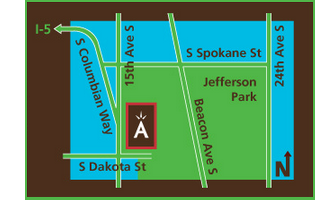
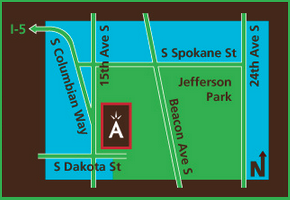
Make directions popup responsive

diff --git a/includes/popcontent.html b/includes/popcontent.html
@@ -50,84 +50,75 @@
 <!-- End Calendar -->
 
 <!-- Directions -->
-<div id="directions">
+<div id="directions" class="center-popup">
 
-    <div class="content-title">
-        Bus Routes
+    <div class="directions-content">
+        <div class="float-right directions-img">
+            <img src="img/map.png">
+        </div>
+        <div>
+            <h3 class="content-title">
+                Bus Routes
+            </h3>
+            <p>
+                We highly encourage sustainable transporation methods such as bussing.
+                <br> The <span class="text-bold">Sound Transit Link Light Rail</span> as well as King County Metro routes <span class="text-bold">#50</span>, <span class="text-bold">#60</span>, and <span class="text-bold">#36</span> are all within walking distance to the Beacon Food Forest Site.
+                <br>
+                <br>
+                <span class="blue">
+                    <a href="http://metro.kingcounty.gov/#apps-tools" target="_blank"> Plan your trip with King County Metro </a>
+                    <br><a href="http://onebusaway.org/p/Tools.action" target="_blank"> Plan your trip with OneBusAway</a>
+                    </span>
+            </p>
+        </div>
+        <div>
+            <h3 class="content-title">
+                Driving Directions
+            </h3>
+            <p>
+                We are located in the North Beacon Hill area, less than 5miles south of I-90 and directly east of the West Seattle Bridge.
+                <br>The Beacon Food Forest site is adjacent to Jefferson Park on 15th AVE S and S. Dakota St in Seattle, WA.
+            </p>
+            <h4 class="text-bold">I-5 Southbound</h4>
+            <p>Take exit #163A and keep left toward Columbian Way</p>
+            <h4 class="text-bold">I-5 Northbound</h4>
+            <p>
+                Take exit #163, keep right Columbian Way
+                <br>Once off the exit:
+                <br>&bull; Stay on Columbian Way, which will merge onto 15th AVE S.
+                <br>&bull; Turn left onto S. Dakota St
+                <br>&bull; Past 16th AVE S, there is parking available in the lot adjacent to the park.
+            </p>
+        </div>
+
+        <div class="directions-information">
+
+
+            <h3 class="content-title">Location</h3>
+            <h4 class="text-bold">Address</h4>
+            <p>
+                15th Avenue South & South Dakota Street
+                <br>Seattle, WA 98108
+            </p>
+            <h4 class="blue">
+                        <a href="./#contactus" onClick="directbox_close()">
+                        Contact Us</a>
+            </h4>
+            <div class="social-locations">
+                <a href="https://www.facebook.com/beaconfoodforest" target="_blank"><img src="img/social/facebook.png">
+                </a>
+
+                <a href="http://goo.gl/sNFL7" target="_blank"><img src="img/social/google.png">
+                </a>
+
+                <a href="http://maps.apple.com/?q=1600+S+Dakota+St+Seattle+WA+98108-1546+United+States" target="_blank"><img src="img/social/apple.png">
+                </a>
+
+                <a href="http://www.yelp.com/biz/beacon-food-forest-seattle" target="_blank"><img src="img/social/yelp.png">
+                </a>
+            </div>
+        </div>
     </div>
-    <p>
-        We highly encourage sustainable transporation methods such as bussing.
-        <br> The <span class="text-bold">Sound Transit Link Light Rail</span> as well as King County Metro routes <span class="text-bold">#50</span>, <span class="text-bold">#60</span>, and <span class="text-bold">#36</span> are all within walking distance to the Beacon Food Forest Site.
-        <br>
-        <br>
-        <span class="blue">
-            <a href="http://metro.kingcounty.gov/#apps-tools" target="_blank"> Plan your trip with King County Metro </a>
-            <br><a href="http://onebusaway.org/p/Tools.action" target="_blank"> Plan your trip with OneBusAway</a>
-            </span>
-    </p>
-    <br>
-    <div class="content-title">
-        Driving Directions
-    </div>
-    <p>
-        We are located in the North Beacon Hill area, less than 5miles south of I-90 and directly east of the West Seattle Bridge.
-        <br>The Beacon Food Forest site is adjacent to Jefferson Park on 15th AVE S and S. Dakota St in Seattle, WA.
-        <br>
-        <br><strong>I-5 Southbound</strong>
-        <br>Take exit #163A and keep left toward Columbian Way
-        <br>
-        <br><strong>I-5 Northbound</strong>
-        <br>Take exit #163, keep right Columbian Way
-        <br>
-        <br>Once off the exit:
-        <br>
-        <br>&bull; Stay on Columbian Way, which will merge onto 15th AVE S.
-        <br>&bull; Turn left onto S. Dakota St
-        <br>&bull; Past 16th AVE S, there is parking available in the lot adjacent to the park.
-        <br>
-    </p>
-
-    <table class="link-table">
-        <tr>
-            <td>
-
-                <div class="content-title">
-                    Beacon Food Forest
-                </div>
-
-                <p>
-                    <span class="text-bold">
-                <br>Address:</span>
-                    <br>15th Avenue South & South Dakota Street
-                    <br>Seattle, WA 98108
-                    <br>
-                    <br>
-                    <span class="blue">
-                    <a href="#contactus" onClick="directbox_close()">
-                    Contact Us</a></span>
-                    <br>
-                    <br>
-
-                    <a href="https://www.facebook.com/beaconfoodforest" target="_blank"><img src="img/social/facebook.png">
-                    </a>
-
-                    <a href="http://goo.gl/sNFL7" target="_blank"><img src="img/social/google.png">
-                    </a>
-
-                    <a href="http://maps.apple.com/?q=1600+S+Dakota+St+Seattle+WA+98108-1546+United+States" target="_blank"><img src="img/social/apple.png">
-                    </a>
-
-                    <a href="http://www.yelp.com/biz/beacon-food-forest-seattle" target="_blank"><img src="img/social/yelp.png">
-                    </a>
-                </p>
-
-            </td>
-            <td>
-                <p><img src="img/map.png">
-                </p>
-            </td>
-        </tr>
-    </table>
 </div>
 
 <div id="fadeDir" onClick="directbox_close()"></div>

diff --git a/style.css b/style.css
@@ -130,6 +130,10 @@ q:before {
 q:after {
     content: close-quote;
 }
+.float-right {
+    float: right;
+}
+
 .content-title {
     font-size: 150%;
     color: #A5978D;
@@ -393,21 +397,62 @@ input[type=text] {
     top: 20%;
     width: 90%;
 }
+
+/*Directions popup*/
 #directions {
     display: none;
     position: fixed;
-    top: 50%;
-    left: 50%;
-    width: 600px;
-    height: 700px;
-    margin-left: -300px;
-    margin-top: -350px;
+    /*top: 50%;*/
+    /*left: 50%;*/
+    max-width: 1000px;
+    max-height: 720px;
+    /*margin-left: -300px;*/
+    /*margin-top: -350px;*/
     background: #FFF;
     z-index: 1002;
-    overflow: visible;
-    padding: 15px 15px 0px 15px;
+    overflow: scroll;
+    padding: 0px 15px 0px 15px;
     border: 10px #50B748 solid;
+    top: 7%;
+    width: 90%;
+    height: 88%;
 }
+@media only screen and (max-width: 525px) {
+    .directions-content .directions-img {
+        width:100%;
+        padding-bottom: 15px;
+    }
+    .directions-content .directions-img img{
+        width:100%;
+    }
+}
+@media only screen and (min-width: 526px) {
+    .directions-content .directions-img {
+        padding-left: 10px;
+        padding-bottom: 10px;
+    }
+}
+
+h4 {
+    font-family: Helvetica;
+    margin-top: 10px;
+    margin-bottom: 10px;
+}
+.social-locations a{
+    display: inline-block;
+    padding: 0px;
+}
+div#directions h3.content-title {
+    margin-bottom: 0.6em;
+}
+div#directions p {
+    margin-left: 10px;
+}
+/*End Directions popup*/
+
+
+
+
 #calendar {
     display: none;
     /*position: fixed;*/
@@ -496,8 +541,9 @@ input[type=text] {
     font-family: "helvetica";
     resize: none;
 }
-/* Vimeo Video*/
 
+
+/* Vimeo Video*/
 #video {
     display: none;
     position: fixed;
